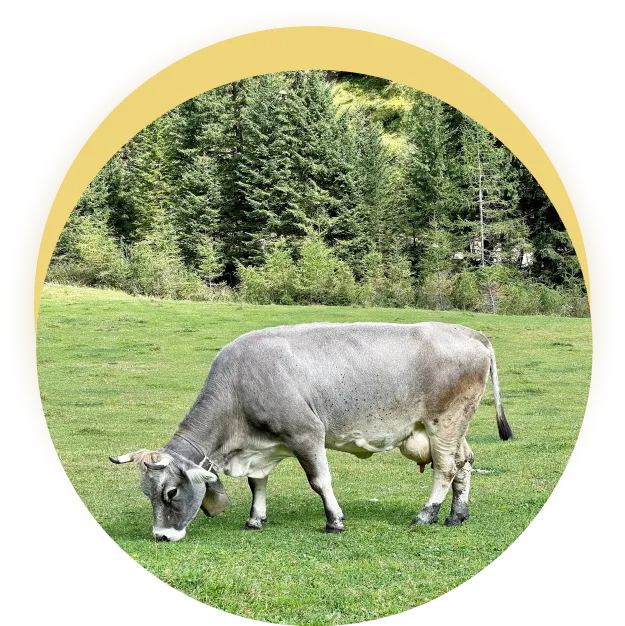
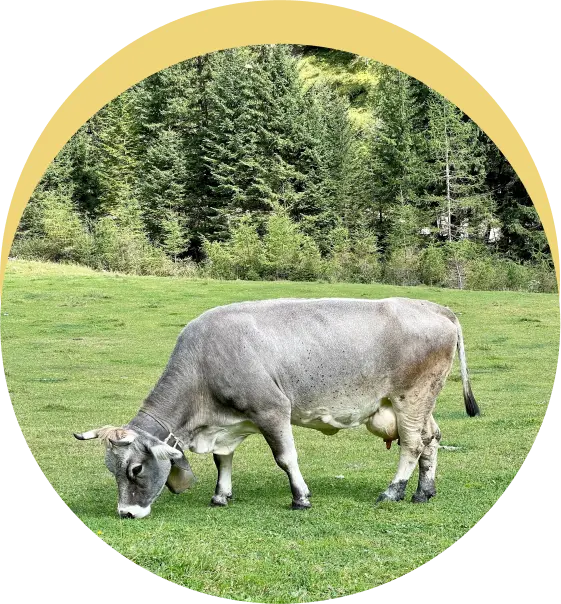
working on positioning

diff --git a/src/sass/layouts/_about.scss b/src/sass/layouts/_about.scss
@@ -29,15 +29,49 @@
     color: var(--secondary-text-color);
   }
 
+  &__image-wrapper {
+    outline: 1px solid yellow;
+    width: 100%;
+
+    // @media screen and (max-width: 479.5px) {
+    //   width: 281px;
+    // }
+  }
+
   &__image {
+    outline: 1px solid orange;
+
     position: absolute;
-    top: 240px;
-    left: 20px;
+    top: 265px;
+    left: 50%;
+
+    transform: translateX(-50%);
+
+    // width: 100%;
+    // width: 280px;
+
+    // background-color: var(--accent-color);
+    // background-position: -22px;
+    // box-shadow: 0 -4.48583px 16.8218px #99721740;
+    // border-radius: 50%;
+
+    // @include tablet {
+    //   width: 330px;
+    // }
   }
 
   &__text-wrapper {
     width: 220px;
     margin-top: 370px;
+
+    @media screen and (max-width: 319.5px) {
+      width: 100%;
+    }
+
+    @include tablet {
+      width: 336px;
+      outline: 1px solid lime;
+    }
   }
 
   &__text {
@@ -46,14 +80,48 @@
     color: var(--secondary-text-color);
   }
 
-  &__text:first-child {
+  &__text:nth-child(1) {
     @include font(null, 12px, 1.76, 0.04em);
   }
 
-  &__text:last-child {
+  &__text:nth-child(2) {
     margin-top: 4px;
 
     @include font(null, 12px, 1.62, null);
+  }
+
+  &__text:nth-child(3) {
+    @mixin fonts($fw, $fs, $lh, $ls: 0) {
+      font-weight: $fw;
+      font-size: $fs + px;
+      line-height: $lh/$fs;
+      letter-spacing: $ls + em;
+    }
+
+    @include fonts(null, 12, 23, 0.04); // @include font(null, 12, 1.94, 0.04em)
+    // font-family: 'Montserrat';
+    // font-style: normal;
+    // font-weight: 400;
+    // font-size: 12px;
+    // line-height: 194%;
+    // /* or 23px */
+
+    // letter-spacing: 0.04em;
+
+    color: #fcfcfc;
+
+    @media screen and (max-width: 768px) {
+      position: absolute;
+      white-space: nowrap;
+      width: 1px;
+      height: 1px;
+      overflow: hidden;
+      border: 0;
+      padding: 0;
+      clip: rect(0 0 0 0);
+      clip-path: inset(50%);
+      margin: -1px;
+    }
   }
 }
 

diff --git a/src/partials/about.html b/src/partials/about.html
@@ -2,6 +2,7 @@
   <div class="about__wrapper container">
     <p class="about__pre-title">tradition and love</p>
     <h2 class="about__title">how it’s made?</h2>
+    <!-- <div class="about__image-wrapper"> -->
     <picture class="about__image">
       <source
         srcset="./images/cow.webp 1x, ./images/cow-x2.webp 2x"
@@ -39,11 +40,11 @@
       <img
         src="./images/cow-mob.png"
         alt="a cow grazes on a meadow"
-        width="280px"
-        height="300px"
+        width="281px"
+        height="302px"
       />
     </picture>
-
+    <!-- </div> -->
     <div class="about__text-wrapper">
       <p class="about__text">
         Ice is a place where you will become not only a little happier, but also
@@ -55,6 +56,9 @@
         are so natural that they can be given to children from the age of three
         years. Sweets lovers can expect 55 types of ice cream, 15 types of
         coffee and 23 milkshakes.
+      </p>
+      <p class="about__text">
+        This is enough to choose ice cream and coffee for any mood!
       </p>
     </div>
     <button class="read-btn button" type="button">

diff --git a/src/sass/components/_container.scss b/src/sass/components/_container.scss
@@ -3,6 +3,8 @@
   padding-right: 20px;
   padding-left: 20px;
   margin: 0 auto;
+  outline: 1px solid red;
+
   @media screen and (min-width: 480px) {
     width: 480px;
   }
